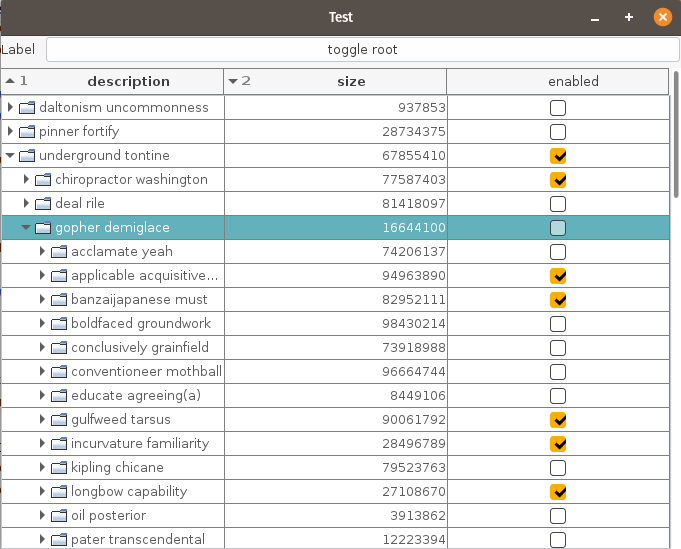
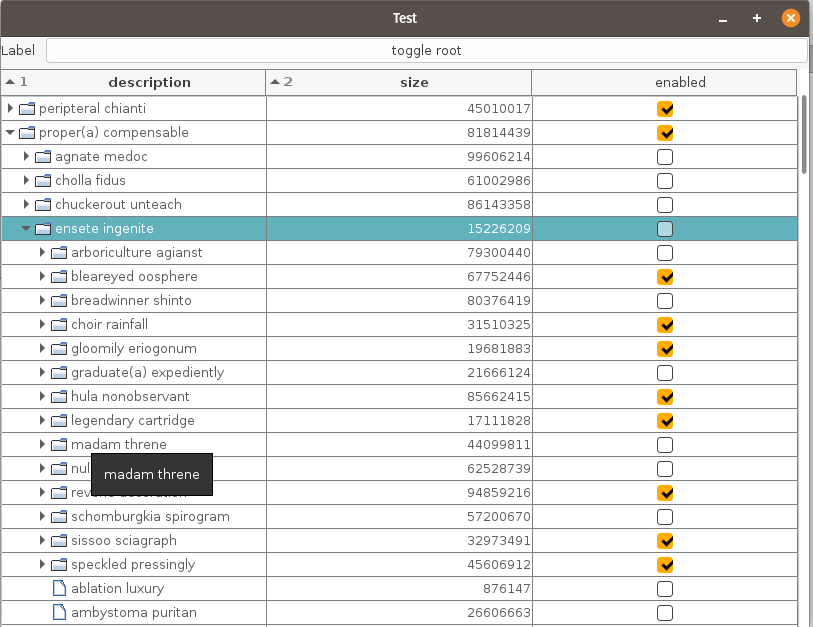
Update documentation.

Changed region(s): [[0.0, 0.0, 1.0, 1.0]]

diff --git a/src/net/byteseek/swing/treetable/demo/TestForm.java b/src/net/byteseek/swing/treetable/demo/TestForm.java
@@ -114,7 +114,7 @@ public class TestForm {
     }
 
     private MyObject buildRandomTree(int maxLevels, int chanceOutOfTenForChildren) {
-        random = new Random(4);
+        random = new Random(999);
         readWordList();
         MyObject rootObject = new MyObject(getRandomDescription(), random.nextInt(100000000), random.nextBoolean());
         buildRandomChildren(rootObject, maxLevels, chanceOutOfTenForChildren, 0, true);

diff --git a/README.md b/README.md
@@ -97,7 +97,7 @@ To display a `TreeTableModel`, instantiate a model with a root node, and bind it
 
 ## Building a tree
 
-The `TreeTableModel` does not build the tree nodes for you automatically.  You must create nodes and child nodes using `TreeTableNode` or a subclass, and assign the correct user objects to the nodes.
+In the example above, we built a single root node and displayed it, so only a single row would be displayed.  You must create the `TreeTableNode` structure, and assign the correct user objects to the nodes.  There are at least two ways to do that:
 
 ### Building a tree from the user object
 If your objects already have a tree structure, you can build a tree from them using the static utility method `TreeTableNode.buildTree()`.  For example:
